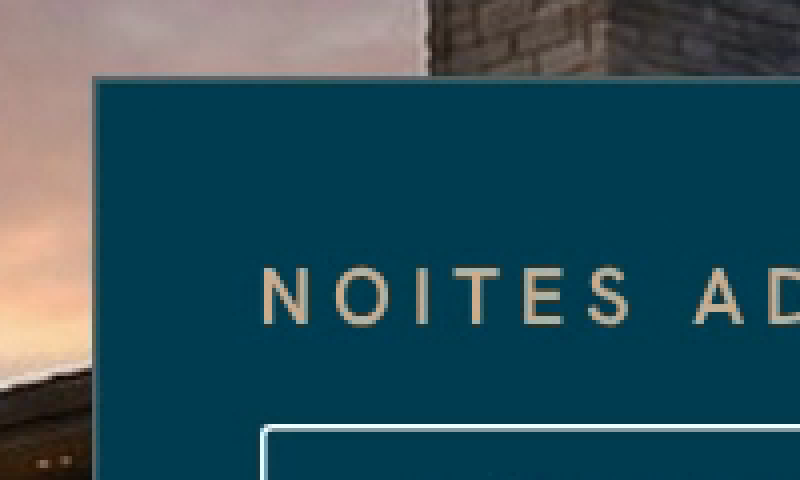
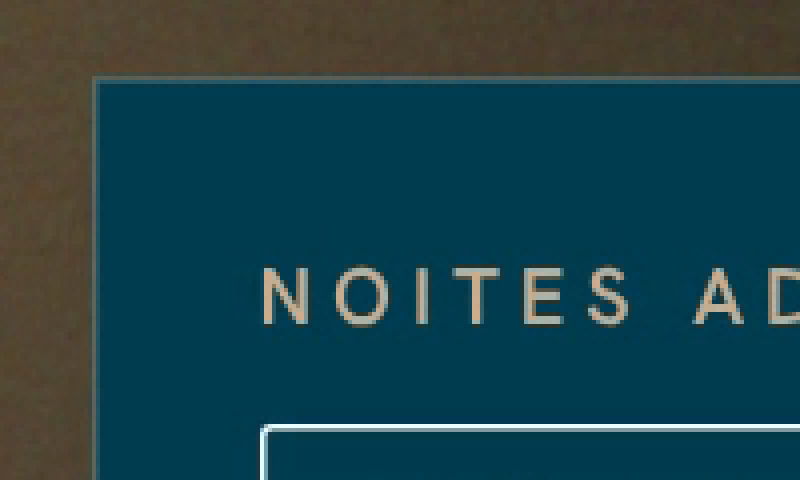
docs(prototype): inventário v5, evidências antes/depois e contatos de Direct e Luxplus
Inventário dos masters vigentes a partir dos arquivos reais (a assinatura mantém os hashes: não foi regenerada),
referência da v4 em out/referencia-f5810a6/, antes/depois v4 → v5 e folhas de contato de Direct e Luxplus sobre as
placas da Olivar Home.

Claude-Session: https://claude.ai/code/session_01PrCkMhNgFvoWLgYV3q4Jsr

Changed region(s): [[0.0, 0.0, 0.5625, 1.0], [0.5938, 0.0, 1.0, 0.1562]]

diff --git a/prototypes/luxtory-club-video/filme/INVENTARIO.md b/prototypes/luxtory-club-video/filme/INVENTARIO.md
@@ -1,88 +1,97 @@
-# Inventário de entregas (revisão de UX e comercial, 2026-11-15)
+# Inventário de entregas (v5 · auditoria final de UX e identidade, 2026-11-15)
 
 > Masters atuais da biblioteca de interfaces e provas do filme Luxtory Club. Os arquivos ficam fora do Git (`out/`) e
 > são regenerados pelos comandos do `README.md`. Nada aqui é footage, voz ou trilha definitiva, e nada está publicado.
 > A publicação depende da verificação de prontidão do produto e da aprovação da comunicação (`PRODUCAO.md` §5).
 
-## Masters atuais
+## Masters atuais (vigentes)
 
-Mesmos nomes de antes, conteúdo novo. O hash (sha256, 12 primeiros caracteres) identifica a versão. As composições usam
-placas de teste de legibilidade, não imóveis do filme.
+Mesmos nomes de antes, conteúdo novo, exceto a assinatura, que não foi afetada e não foi regenerada. O hash (sha256, 12
+primeiros caracteres) identifica a versão. As composições usam placas internas de teste por Second Home
+(`placas.mjs`), não imóveis do filme.
 
 | Asset | Arquivo | Formato | Duração | Tamanho | sha256 |
 |---|---|---|---|---|---|
-| Request | `out/etapa-a/request-16x9-alpha-prores4444.mov` | prores 1920×1080 · 30 fps | 4.0 s | 41.3 MB | `653b7596f9e9` |
-| Request | `out/etapa-a/request-16x9-comp-claro.mp4` | h264 1920×1080 · 30 fps | 35.0 s | 12.7 MB | `ee914c560d93` |
-| Request | `out/etapa-a/request-16x9-comp-escuro.mp4` | h264 1920×1080 · 30 fps | 35.0 s | 28.8 MB | `23e8c49cccf1` |
-| Request | `out/etapa-a/request-16x9-preview.mp4` | h264 1920×1080 · 30 fps | 35.0 s | 2.4 MB | `357d6e5eceaf` |
-| Request | `out/etapa-a/request-9x16-alpha-prores4444.mov` | prores 1080×1920 · 30 fps | 4.0 s | 58.8 MB | `1d5d4624f8fc` |
-| Request | `out/etapa-a/request-9x16-comp-claro.mp4` | h264 1080×1920 · 30 fps | 35.0 s | 11.8 MB | `fa5ccb02637e` |
-| Request | `out/etapa-a/request-9x16-comp-escuro.mp4` | h264 1080×1920 · 30 fps | 35.0 s | 18.5 MB | `4a5ec1ad3b64` |
-| Request | `out/etapa-a/request-9x16-preview.mp4` | h264 1080×1920 · 30 fps | 35.0 s | 2.8 MB | `6073f033f6c7` |
-| Direct | `out/etapa-a/direct-16x9-alpha-prores4444.mov` | prores 1920×1080 · 30 fps | 5.0 s | 59.9 MB | `d580febd333e` |
-| Direct | `out/etapa-a/direct-16x9-comp-claro.mp4` | h264 1920×1080 · 30 fps | 16.7 s | 7.8 MB | `c5c736019830` |
-| Direct | `out/etapa-a/direct-16x9-preview.mp4` | h264 1920×1080 · 30 fps | 16.7 s | 1.2 MB | `6614cb7290d8` |
-| Direct | `out/etapa-a/direct-9x16-alpha-prores4444.mov` | prores 1080×1920 · 30 fps | 5.0 s | 57.1 MB | `c58358248a66` |
-| Direct | `out/etapa-a/direct-9x16-comp-claro.mp4` | h264 1080×1920 · 30 fps | 16.7 s | 6.2 MB | `1f77a44ddaac` |
-| Direct | `out/etapa-a/direct-9x16-preview.mp4` | h264 1080×1920 · 30 fps | 16.7 s | 1.2 MB | `2c0e88772382` |
-| Luxplus | `out/etapa-a/luxplus-16x9-alpha-prores4444.mov` | prores 1920×1080 · 30 fps | 5.0 s | 58.0 MB | `023bbcd42d9e` |
-| Luxplus | `out/etapa-a/luxplus-16x9-comp-escuro.mp4` | h264 1920×1080 · 30 fps | 15.5 s | 15.0 MB | `e19d08c5289e` |
-| Luxplus | `out/etapa-a/luxplus-16x9-preview.mp4` | h264 1920×1080 · 30 fps | 15.5 s | 0.9 MB | `b5c9bf8c9b2b` |
-| Luxplus | `out/etapa-a/luxplus-9x16-alpha-prores4444.mov` | prores 1080×1920 · 30 fps | 5.0 s | 56.1 MB | `4b78c53b2c8d` |
-| Luxplus | `out/etapa-a/luxplus-9x16-comp-escuro.mp4` | h264 1080×1920 · 30 fps | 15.5 s | 8.9 MB | `e47517a05408` |
-| Luxplus | `out/etapa-a/luxplus-9x16-preview.mp4` | h264 1080×1920 · 30 fps | 15.5 s | 1.0 MB | `be67c0e612df` |
-| Créditos (C04) | `out/etapa-a/creditos-16x9-alpha-prores4444.mov` | prores 1920×1080 · 30 fps | 5.0 s | 53.9 MB | `f4f874be02b9` |
-| Créditos (C04) | `out/etapa-a/creditos-16x9-comp-serra.mp4` | h264 1920×1080 · 30 fps | 11.0 s | 13.4 MB | `3593913c8e5b` |
-| Créditos (C04) | `out/etapa-a/creditos-16x9-preview.mp4` | h264 1920×1080 · 30 fps | 11.0 s | 0.4 MB | `bcc008efb8b3` |
-| Créditos (C04) | `out/etapa-a/creditos-9x16-alpha-prores4444.mov` | prores 1080×1920 · 30 fps | 5.0 s | 71.4 MB | `05ac697d1fee` |
-| Créditos (C04) | `out/etapa-a/creditos-9x16-comp-serra.mp4` | h264 1080×1920 · 30 fps | 11.0 s | 5.9 MB | `85260469db06` |
-| Créditos (C04) | `out/etapa-a/creditos-9x16-preview.mp4` | h264 1080×1920 · 30 fps | 11.0 s | 0.6 MB | `e4f3b463a53f` |
+| Request | `out/etapa-a/request-16x9-alpha-prores4444.mov` | prores 1920×1080 · 30 fps | 4.0 s | 41.1 MB | `c90884a9c659` |
+| Request | `out/etapa-a/request-16x9-comp-claro.mp4` | h264 1920×1080 · 30 fps | 35.0 s | 12.7 MB | `ff353d3a2e0f` |
+| Request | `out/etapa-a/request-16x9-comp-escuro.mp4` | h264 1920×1080 · 30 fps | 35.0 s | 12.0 MB | `b93aecbbc6d4` |
+| Request | `out/etapa-a/request-16x9-preview.mp4` | h264 1920×1080 · 30 fps | 35.0 s | 2.4 MB | `975b7a0d440e` |
+| Request | `out/etapa-a/request-9x16-alpha-prores4444.mov` | prores 1080×1920 · 30 fps | 4.0 s | 58.5 MB | `1017e8fd429f` |
+| Request | `out/etapa-a/request-9x16-comp-claro.mp4` | h264 1080×1920 · 30 fps | 35.0 s | 11.8 MB | `97660609841c` |
+| Request | `out/etapa-a/request-9x16-comp-escuro.mp4` | h264 1080×1920 · 30 fps | 35.0 s | 10.9 MB | `fc3cd67bbcb7` |
+| Request | `out/etapa-a/request-9x16-preview.mp4` | h264 1080×1920 · 30 fps | 35.0 s | 2.8 MB | `df4f31e640cf` |
+| Direct | `out/etapa-a/direct-16x9-alpha-prores4444.mov` | prores 1920×1080 · 30 fps | 5.0 s | 59.8 MB | `27d44abdd9ce` |
+| Direct | `out/etapa-a/direct-16x9-comp-claro.mp4` | h264 1920×1080 · 30 fps | 16.7 s | 12.0 MB | `fbaed2f7b2dc` |
+| Direct | `out/etapa-a/direct-16x9-preview.mp4` | h264 1920×1080 · 30 fps | 16.7 s | 1.2 MB | `75b3c8ab7273` |
+| Direct | `out/etapa-a/direct-9x16-alpha-prores4444.mov` | prores 1080×1920 · 30 fps | 5.0 s | 56.9 MB | `3ca6be36812b` |
+| Direct | `out/etapa-a/direct-9x16-comp-claro.mp4` | h264 1080×1920 · 30 fps | 16.7 s | 11.4 MB | `c8b4dbf21cc7` |
+| Direct | `out/etapa-a/direct-9x16-preview.mp4` | h264 1080×1920 · 30 fps | 16.7 s | 1.2 MB | `a48de5c86f3f` |
+| Luxplus | `out/etapa-a/luxplus-16x9-alpha-prores4444.mov` | prores 1920×1080 · 30 fps | 5.0 s | 57.8 MB | `958c86cc2b8d` |
+| Luxplus | `out/etapa-a/luxplus-16x9-comp-escuro.mp4` | h264 1920×1080 · 30 fps | 15.5 s | 12.5 MB | `9bfaad25aa68` |
+| Luxplus | `out/etapa-a/luxplus-16x9-preview.mp4` | h264 1920×1080 · 30 fps | 15.5 s | 0.9 MB | `e65ce21bc3aa` |
+| Luxplus | `out/etapa-a/luxplus-9x16-alpha-prores4444.mov` | prores 1080×1920 · 30 fps | 5.0 s | 55.8 MB | `da097b66ebb9` |
+| Luxplus | `out/etapa-a/luxplus-9x16-comp-escuro.mp4` | h264 1080×1920 · 30 fps | 15.5 s | 11.3 MB | `8980504778b7` |
+| Luxplus | `out/etapa-a/luxplus-9x16-preview.mp4` | h264 1080×1920 · 30 fps | 15.5 s | 1.0 MB | `87868af3c366` |
+| Créditos (C04) | `out/etapa-a/creditos-16x9-alpha-prores4444.mov` | prores 1920×1080 · 30 fps | 5.0 s | 47.5 MB | `6d11fc9adbf5` |
+| Créditos (C04) | `out/etapa-a/creditos-16x9-comp-serra.mp4` | h264 1920×1080 · 30 fps | 10.5 s | 13.4 MB | `2b18712dd526` |
+| Créditos (C04) | `out/etapa-a/creditos-16x9-preview.mp4` | h264 1920×1080 · 30 fps | 10.5 s | 0.4 MB | `a7db82375530` |
+| Créditos (C04) | `out/etapa-a/creditos-9x16-alpha-prores4444.mov` | prores 1080×1920 · 30 fps | 5.0 s | 67.8 MB | `bdddb14f280d` |
+| Créditos (C04) | `out/etapa-a/creditos-9x16-comp-serra.mp4` | h264 1080×1920 · 30 fps | 10.5 s | 6.3 MB | `94cf0c63da69` |
+| Créditos (C04) | `out/etapa-a/creditos-9x16-preview.mp4` | h264 1080×1920 · 30 fps | 10.5 s | 0.6 MB | `c188f1d13403` |
 | Assinatura (inalterada desde 2e6e68c) | `out/etapa-a/assinatura-16x9-alpha-prores4444.mov` | prores 1920×1080 · 30 fps | 6.0 s | 20.3 MB | `3f55abf56a4b` |
 | Assinatura (inalterada desde 2e6e68c) | `out/etapa-a/assinatura-16x9-preview.mp4` | h264 1920×1080 · 30 fps | 6.0 s | 0.1 MB | `65ca3fc21ba2` |
 | Assinatura (inalterada desde 2e6e68c) | `out/etapa-a/assinatura-9x16-alpha-prores4444.mov` | prores 1080×1920 · 30 fps | 6.0 s | 21.8 MB | `62b0c237a777` |
 | Assinatura (inalterada desde 2e6e68c) | `out/etapa-a/assinatura-9x16-preview.mp4` | h264 1080×1920 · 30 fps | 6.0 s | 0.1 MB | `25db246a7896` |
-| Prova de montagem | `out/prova/prova-request-16x9-revisao.mp4` | h264 1920×1200 · 30 fps | 24.8 s | 8.3 MB | `7f0c15f8d418` |
-| Prova de montagem | `out/prova/prova-request-16x9.mp4` | h264 1920×1080 · 30 fps | 24.8 s | 8.2 MB | `cc2e219cec1e` |
-| Prova curta do passo de Créditos | `out/prova-curta/prova-curta-request-16x9.mp4` | h264 1920×1080 · 30 fps | 13.0 s | 2.8 MB | `eb8f53035ee9` |
-| Prova curta do passo de Créditos | `out/prova-curta/prova-curta-request-9x16.mp4` | h264 1080×1920 · 30 fps | 13.0 s | 3.7 MB | `de8b1872495d` |
+| Prova de montagem | `out/prova/prova-request-16x9-revisao.mp4` | h264 1920×1200 · 30 fps | 26.4 s | 9.1 MB | `5c2728784566` |
+| Prova de montagem | `out/prova/prova-request-16x9.mp4` | h264 1920×1080 · 30 fps | 26.4 s | 8.9 MB | `24e1c7eea3a6` |
+| Prova curta do passo de Créditos | `out/prova-curta/prova-curta-request-16x9.mp4` | h264 1920×1080 · 30 fps | 13.0 s | 4.6 MB | `60b01aef89f6` |
+| Prova curta do passo de Créditos | `out/prova-curta/prova-curta-request-9x16.mp4` | h264 1080×1920 · 30 fps | 13.0 s | 5.1 MB | `b69971bc6730` |
 
 Stills 4K com alfa dos instantes-chave em `out/etapa-a/stills/<seq>-<fmt>-<instante>.png`; quadros RGBA em
-`out/etapa-a/frames-<seq>-<fmt>/`. Folhas de contato e zoom de borda versionados em `evidencias/etapa-a/`.
+`out/etapa-a/frames-<seq>-<fmt>/`; placas internas em `out/placas/`. Evidências versionadas em `evidencias/v5/`
+(combinações do controle nos dois formatos e antes/depois da v4 para a v5).
 
 ## O que mudou em cada asset
 
-| Asset | Mudança | Regenerado |
+| Asset | Mudança na v5 | Regenerado |
 |---|---|---|
-| Request (16:9, 9:16, composições clara e escura, ProRes, stills) | passo de Créditos e depósito (faltam 7.000 → 46.000 → 94.000), Taxa de intermediação, Garantia só no envio e por origem; sem selo, PRL, "fictícia", "simulado", IDs e timestamps; 25 s → 35 s | sim |
-| Direct (16:9, 9:16, composição clara, ProRes, stills) | passo de Créditos com saldo suficiente (continuar com meu saldo), Taxa de intermediação, sem jargões; 14 s → 16,7 s; placa de teste no lugar da foto do anteprojeto Kaizen | sim |
-| Luxplus (16:9, 9:16, composição escura, ProRes, stills) | linguagem harmonizada: uma menção ao dinheiro, sem "ilustrativo", "Etapa conceitual", "simulado", selo ou timestamp; mesma duração | sim |
-| Créditos C04 (16:9, 9:16, composição, ProRes, stills) | "Créditos + Taxa de intermediação", sem selo | sim |
-| Assinatura (6 s) | nenhuma: já era só a marca | não (não afetada) |
-| Prova de montagem | trechos remapeados para a nova Request, cena C06 com a complementação em Mirante · Serra, descritor com Taxa de intermediação, ambiente de vento; 19,8 s → 24,8 s | sim |
-| Prova curta do passo de Créditos | nova: validação do trecho 5,5–18,5 s da Request antes do render completo | nova |
+| Request (16:9, 9:16, composições clara e escura, ProRes, stills) | Azzura Home (Litoral · Second Home Luxtory); controle com todas as combinações e coreografia 14.000 (16/05, o mínimo) → 30.000 (14/05) → 46.000 (15/05), com toques espaçados para cada meta ser lida; dica do mínimo e do excedente; marcas na trilha; "Selecionada" com traço de check; calendário do 9:16 a 8,5% da altura; rótulos de botão e revalidação sem crossfade; placa escura da Azzura | sim |
+| Direct (16:9, 9:16, composição clara, ProRes, stills) | Olivar Home (Campo); só o saldo (39.000 para 11.500); rótulo do botão sem crossfade; placa de tarde da Olivar no lugar da K05 do Kaizen | sim |
+| Luxplus (16:9, 9:16, composição escura, ProRes, stills) | Olivar Home; rótulo do botão sem crossfade; placa de noite da Olivar; sem Taxa de intermediação nem Créditos | sim |
+| Créditos C04 (16:9, 9:16, composição, ProRes, stills) | painel conceitual sem números (Créditos que você já tem + novos Créditos de datas depositadas = um só saldo); 11 s → 10,5 s | sim |
+| Assinatura (6 s) | nenhuma: só a marca | não (não afetada) |
+| Prova de montagem | complementação até o depósito confirmado e o saldo de 94.000 (a única formação do saldo); rótulos com Satori e Azzura Home; narração-guia "…e deposita mais, para depois"; 24,8 s → 26,4 s | sim |
+| Prova curta do passo de Créditos | trecho 5,5–18,5 s da Request v5, cortado das composições claras regeneradas | sim |
 
 ## Verificações desta versão
 
-- `prototype.test.mjs`: 32/32. Cobre:
-  - fórmulas e elegibilidade do depósito (BR-151, BR-200, REQ-060) e metas só com datas inteiras;
-  - sincronia controle × calendário e depósito confirmado antes da revisão;
-  - Garantia só no envio e Direct sem depósito;
-  - variante Owner, nenhum jargão e assinatura só da marca.
-- `check.mjs` (request, direct, luxplus, creditos, assinatura × 16:9 e 9:16): textos e valores esperados, nenhum
-  jargão ou "Fee" visível, axe WCAG 2.2 AA, sobreposição 0 em todos os quadros, cartões dentro do quadro, texto mínimo
-  (20 px no 16:9, 32 px no 9:16), determinismo.
-- `capture.mjs`: arquivos codificados conformes (dimensões, 30 fps, quadros, alfa com PSNR ≥ 58 dB e RGB ≥ 48 dB,
-  cores da marca, continuidade das placas, entrada sem quadro repetido).
-- `montar.mjs`: 744/744 quadros, BT.709, áudio 48 kHz estéreo, −20 LUFS e true peak −2,1 dBTP; `--final` recusa
-  placeholders.
-- Lint e testes do Design System (56/56) verdes.
+- `prototype.test.mjs`: 35/35. Cobre, entre outros:
+  - metas do controle com todas as combinações (0, 14.000, 16.000, 30.000, 32.000, 46.000), o mínimo que cobre
+    (14.000, 16/05) e a sugestão determinística nos dois sentidos, com a escolha explícita prevalecendo;
+  - sincronia controle × calendário na Request (14.000 → 30.000 → 46.000);
+  - C04 sem números nem "Helena" e o saldo formado uma única vez na Request;
+  - nomes novos nos cartões e na prova, sem Mirante, Varanda, Pátio ou "Home Edition";
+  - a prova cobre a complementação até o depósito confirmado;
+  - "Selecionada" com traço de check, indisponível e comprometida riscadas.
+- `check.mjs` (request, direct, luxplus, creditos, assinatura × 16:9 e 9:16): textos e valores esperados; nenhum
+  jargão nem "Fee"; axe WCAG 2.2 AA; sobreposição 0 em todos os quadros, agora também dentro de cada `.demo-swap`
+  (rótulos de botão e revalidação); 9:16 sem conteúdo acima de 8% da altura; texto mínimo de 20 px (16:9) e 32 px
+  (9:16); determinismo.
+- Legibilidade das metas, medida no navegador (opacidade ≥ 0,95): 30.000 por 0,83 s (16:9) e 0,77 s (9:16); antes,
+  ≈ 0,04 s e nunca opaco.
+- `capture.mjs`: arquivos codificados conformes — dimensões, 30 fps, quadros, alfa (PSNR ≥ 75 dB) e RGB (≥ 48 dB),
+  cores da marca, entrada sem quadro repetido e push-in contínuo de todas as placas, inclusive as da Olivar Home
+  depois do grão fino.
+- `montar.mjs`: 792/792 quadros (26,4 s), BT.709, áudio 48 kHz estéreo, −20 LUFS e true peak −2,4 dBTP.
+- Gates do repositório: `npm run lint` e `npm run typecheck` verdes; Design System 56/56; Vitest `unit` 1023/1023.
+  O Vitest `db` não foi rodado: nada de banco, `src/` ou migrations mudou.
 
 ## Referência de regressão (não é entrega)
 
-`out/referencia-2e6e68c/` guarda as versões anteriores, só para comparação:
-- vídeos, ProRes, stills, relatórios e evidências do commit `2e6e68c`;
-- quadros legados da Request da Etapa A (`frames-legados/`);
-- arquivos que deixaram de existir na versão atual (`obsoletos-etapa-a/`): composições "campo" sobre a foto Kaizen,
-  stills e relatórios legados e stills da assinatura de 9 s.
+- `out/referencia-f5810a6/`: entregáveis da v4 (commit `f5810a6`) das sequências afetadas (request, direct, luxplus,
+  creditos), da prova de montagem e da prova curta, com os mesmos nomes. Os quadros PNG não foram copiados: são
+  regeneráveis a partir do commit.
+- `out/referencia-2e6e68c/`: versões anteriores à revisão de UX (commit `2e6e68c`), quadros legados da Etapa A
+  (`frames-legados/`) e arquivos que deixaram de existir (`obsoletos-etapa-a/`).
 
-Os comparativos antes/depois estão em `evidencias/revisao-ux/`.
+Os comparativos antes/depois estão em `evidencias/v5/` (v4 → v5) e `evidencias/revisao-ux/` (rodada anterior).

diff --git a/prototypes/luxtory-club-video/README.md b/prototypes/luxtory-club-video/README.md
@@ -368,6 +368,9 @@ node prototypes/luxtory-club-video/placas.mjs --force
   resumo do acordeão cabe em uma linha e a legenda passa a três colunas.
 - `check.mjs` reprova qualquer instante do 9:16 com conteúdo acima de 8%.
 
+**Evidências.** `evidencias/v5/`: combinações do controle nos dois formatos e antes/depois da v4 para a v5, extraídos
+dos arquivos codificados. Inventário dos masters vigentes em `filme/INVENTARIO.md`.
+
 **Versões anteriores.** Os entregáveis do commit `f5810a6` (v4) estão em `out/referencia-f5810a6/`, com os mesmos nomes.
 
 ## Integração na pós (Etapa A)
